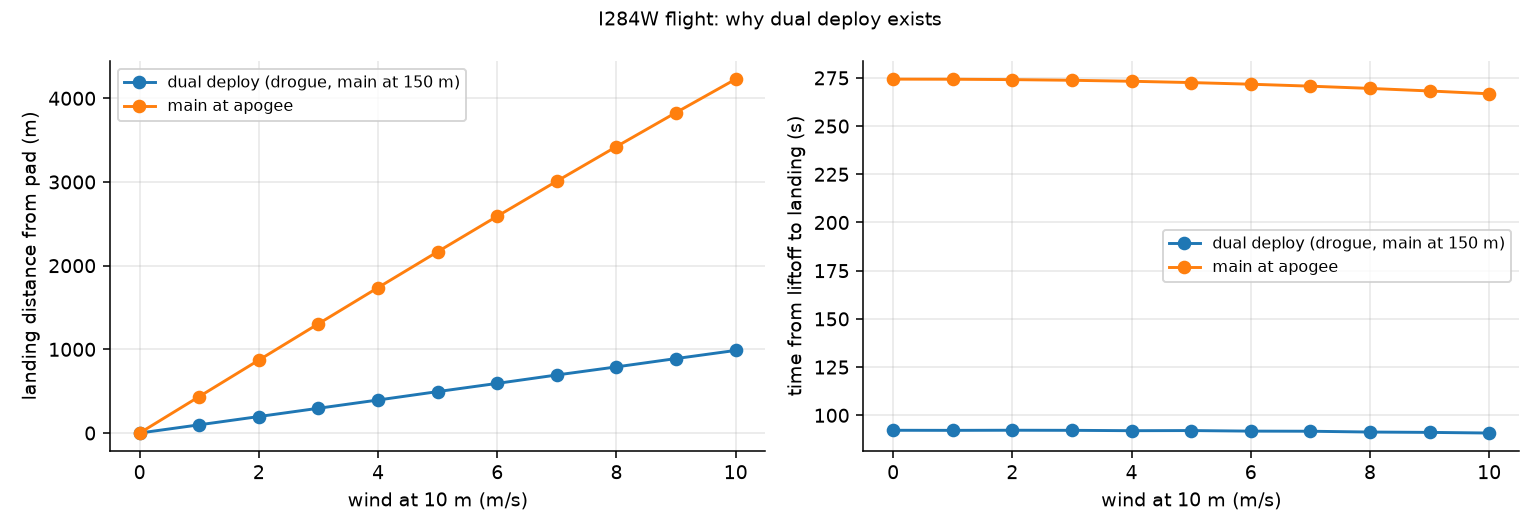
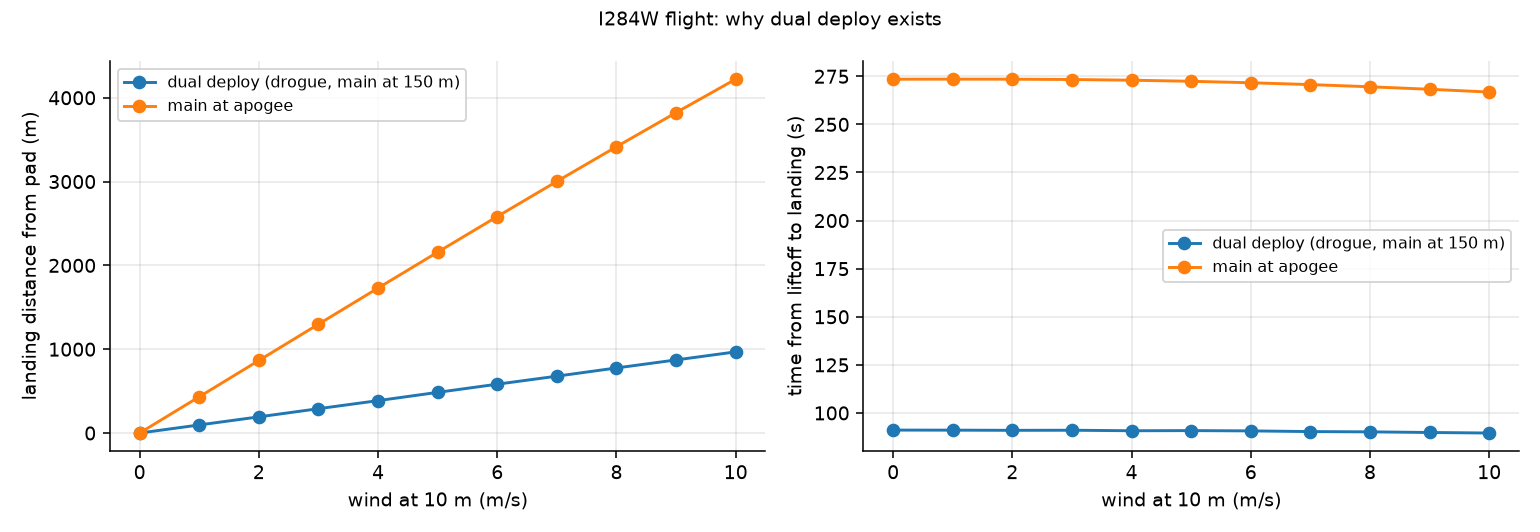
Show opening loads under the drogue, at apogee and after a drogue failure
New recovery section in make_figures: peak main-canopy force against the
speed it opens at, for fill constants of 4, 8 and 12 canopy diameters.
Under the drogue the main opens with ~110 N (5 g); at 60 m/s it would be
~570 N. Landing results regenerated with the new descent model (dual
deploy lands 776 m away in an 8 m/s wind, was 791 m).

Closes #6

diff --git a/examples/make_figures.py b/examples/make_figures.py
@@ -6,7 +6,7 @@
 
 Every simulation goes through hprsim.runner: one progress bar for the whole job,
 lowest CPU priority, and + / - keys to change how many run at once while it goes.
-Sections: thrust, baseline, weathercock, landing, montecarlo, altitude.
+Sections: thrust, baseline, weathercock, landing, montecarlo, altitude, recovery.
 """
 from __future__ import annotations
 
@@ -27,7 +27,7 @@ FIG = ROOT / "docs" / "figures"
 RESULTS = ROOT / "docs" / "results.json"
 ROCKET = ROOT / "rockets" / "example_3in.toml"
 MOTORS = {name: ROOT / "data" / "motors" / f"AeroTech_{name}.eng" for name in ("H128W", "I284W", "J420R")}
-SECTIONS = ("thrust", "baseline", "weathercock", "landing", "montecarlo", "altitude")
+SECTIONS = ("thrust", "baseline", "weathercock", "landing", "montecarlo", "altitude", "recovery")
 SITES = (0.0, 500.0, 1000.0, 1500.0, 2000.0)  # launch site elevation, m
 EXITS = (0.0, 0.012, 0.016, 0.020)  # nozzle exit diameter, m (0 = curve as certified)
 WINDS = np.arange(0, 10.1, 1.0)
@@ -107,6 +107,8 @@ def main():
     if "montecarlo" in only:
         jobs["mc_raw"], mc_raw_in = monte_carlo_specs(args.mc, 0.10, seed=1)
         jobs["mc_cal"], mc_cal_in = monte_carlo_specs(args.mc, 0.02, seed=2)
+    if "recovery" in only:
+        jobs["recovery"] = [{"motor": "I284W"}, {"motor": "I284W", "recovery": {"drogue_cda": None, "main_altitude": None}}]
     if "altitude" in only:
         jobs["altitude"] = [{"motor": "I284W", "ascent_only": True, "exit_diameter": d,
                              "launch": {"site_elevation": h}} for h in SITES for d in EXITS]
@@ -265,6 +267,41 @@ def main():
             "apogee_m_as_certified": {f"{h:.0f}": round(float(a), 1) for h, a in zip(SITES, ap[:, 0])},
             "apogee_gain_pct": {f"{1000 * d:.0f}mm": {f"{h:.0f}": round(float(g), 2) for h, g in zip(SITES, gain[:, j])}
                                 for j, d in enumerate(EXITS) if d > 0}}
+
+    # ---- 7. parachute opening loads
+    if "recovery" in only:
+        r = rocket.load(ROCKET, motor=motor.Motor.from_eng(MOTORS["I284W"]))
+        m = r.mass_props(r.motor.burn_time + 1.0)[0]
+        speeds = np.arange(10.0, 90.1, 5.0)
+        dual, apogee_main = res["recovery"][0]["events"], res["recovery"][1]["events"]
+        fig, ax = plt.subplots(figsize=(6.5, 3.9))
+        curves = {}
+        for n in (4.0, 8.0, 12.0):
+            rec = flight.Recovery(drogue_cda=None, main_altitude=None, fill_constant=n)
+            loads = []
+            for V in speeds:  # main fired at 150 m while falling at V
+                ev = {}
+                flight.descend(flight.Launch(), rec, m, 0.0, np.array([0.0, 0.0, 150.0, 0.0, 0.0, -V]), ev, t_end=8.0)
+                loads.append(ev["main_opening_force_N"])
+            curves[n] = np.array(loads)
+            ax.plot(speeds, curves[n], "-" if n == 8.0 else "--", label=f"fills in {n:.0f} canopy diameters")
+        ax.plot([dual["drogue_descent_speed"]], [dual["main_opening_force_N"]], "ko")
+        ax.annotate("dual deploy:\nmain opens under the drogue", (dual["drogue_descent_speed"], dual["main_opening_force_N"]),
+                    textcoords="offset points", xytext=(10, 25), fontsize=8, arrowprops={"arrowstyle": "-", "lw": 0.6})
+        ax.set_xlabel("falling speed when the main opens (m/s)")
+        ax.set_ylabel("peak opening force (N)")
+        sec = ax.secondary_yaxis("right", functions=(lambda f: f / (m * 9.80665), lambda g: g * m * 9.80665))
+        sec.set_ylabel("(g)")
+        ax.set_title(f"60 in main on the {m:.1f} kg rocket: the load grows with the square of the speed", fontsize=10)
+        ax.legend(fontsize=8, loc="upper left")
+        save(fig, "opening_shock.png")
+        results["recovery"] = {
+            "mass_kg": round(float(m), 2),
+            "dual_deploy": {k: round(float(dual[k]), 1) for k in ("drogue_descent_speed", "drogue_opening_force_N",
+                                                                   "main_opening_force_N", "main_opening_g")},
+            "main_at_apogee": {k: round(float(apogee_main[k]), 1) for k in ("main_opening_force_N", "main_opening_g")},
+            "main_force_N_vs_speed": {f"fill_{n:.0f}D": {f"{v:.0f}": round(float(f), 0) for v, f in zip(speeds, c)}
+                                      for n, c in curves.items()}}
 
     RESULTS.write_text(json.dumps(results, indent=2))
     print(f"updated: {', '.join(sorted(only))}  ->  {RESULTS.relative_to(ROOT)}")

diff --git a/DERIVATIONS.md b/DERIVATIONS.md
@@ -136,7 +136,15 @@ After apogee the rocket is treated as a point mass hanging under its parachute's
 
 $$v_t = \sqrt{\frac{2mg}{\rho\,C_dA}}$$
 
-(`test_descent_reaches_terminal_velocity_under_main`). Parachute inflation time is ignored.
+(`test_descent_reaches_terminal_velocity_under_main`).
+
+**Opening shock.** A canopy fills over a distance, not instantly. The model assumes its diameter grows linearly with the distance $x$ traveled since deployment, so the drag area grows as $x^2$ and is full after $L = n D_0$, where $n$ is the fill constant. Without gravity, $v\,dv/dx = dv/dt$ turns $m\,dv/dt = -\tfrac12\rho v^2 C_DA\,(x/L)^2$ into
+
+$$\frac{dv}{v} = -\frac{\rho C_DA}{2mL^2}x^2\,dx \quad\Rightarrow\quad v = v_0 e^{-kx^3},\qquad k = \frac{\rho C_DA}{6mL^2}$$
+
+The force $F = \tfrac12\rho v^2 C_DA(x/L)^2 \propto x^2 e^{-2kx^3}$ peaks at $x^* = (3k)^{-1/3}$. If $x^* > L$ (a heavy payload), it peaks at full inflation instead. The test fills a canopy at 30 m/s for a light and a very heavy payload and checks the peak force against this formula (`test_opening_shock_matches_the_closed_form`).
+
+$n$ depends on the canopy type. It is an assumption here (8 by default), which is why the README shows 4 and 12 too.
 
 ## 9. Calibration and Monte Carlo
 
@@ -152,6 +160,6 @@ $$v_t = \sqrt{\frac{2mg}{\rho\,C_dA}}$$
 - Subsonic only. There is no transonic drag rise, and no body lift at higher angles of attack (Galejs).
 - No roll dynamics, fin cant or thrust misalignment.
 - Thrust changes with altitude only if you give the nozzle exit diameter.
-- Parachutes open instantly.
+- Parachute filling is a simple model: drag area grows with distance squared, and the fill constant is an assumption.
 - Wind is a steady power-law profile with no gusts.
 - The example rocket's dimensions are representative of 3-inch kits. They aren't a specific kit.

diff --git a/README.md b/README.md
@@ -34,9 +34,13 @@ The stability margin isn't one number. It climbs while the motor burns, because 
 
 ![Weathercocking](docs/figures/weathercock.png)
 
-**Dual deploy isn't optional on a windy day.** In an 8 m/s wind, opening the main at apogee puts the I284W flight 3.4 km from the pad. Coming down fast under a small drogue and opening the main at 150 m brings that to 790 m.
+**Dual deploy isn't optional on a windy day.** In an 8 m/s wind, opening the main at apogee puts the I284W flight 3.4 km from the pad. Coming down fast under a small drogue and opening the main at 150 m brings that to 780 m.
 
 ![Landing dispersion](docs/figures/landing_dispersion.png)
+
+**The drogue also protects the main.** A parachute doesn't open instantly, and the force while it fills grows with the square of the falling speed. Under the drogue the rocket comes down at 25 m/s, so the 60 in main opens with about 110 N (5 g). Opening it at apogee is gentler (34 N), but then the rocket drifts kilometers. If the drogue failed and the main fired at 60 m/s, the load would be about 570 N, five times higher. That's the load the shock cord and its anchors would have to survive. How quickly a canopy fills is an assumption (I use 8 canopy diameters of travel), so the plot shows 4 and 12 too.
+
+<img src="docs/figures/opening_shock.png" width="60%">
 
 **After you calibrate drag, the motor is the biggest unknown.** I ran 300 flights per case with realistic scatter in drag, dry mass, motor impulse (±3%), wind and air temperature.
 - **With my drag model as-is**, the apogee spread is ±88 m (1σ), and 68% of that comes from not knowing the drag well enough.
